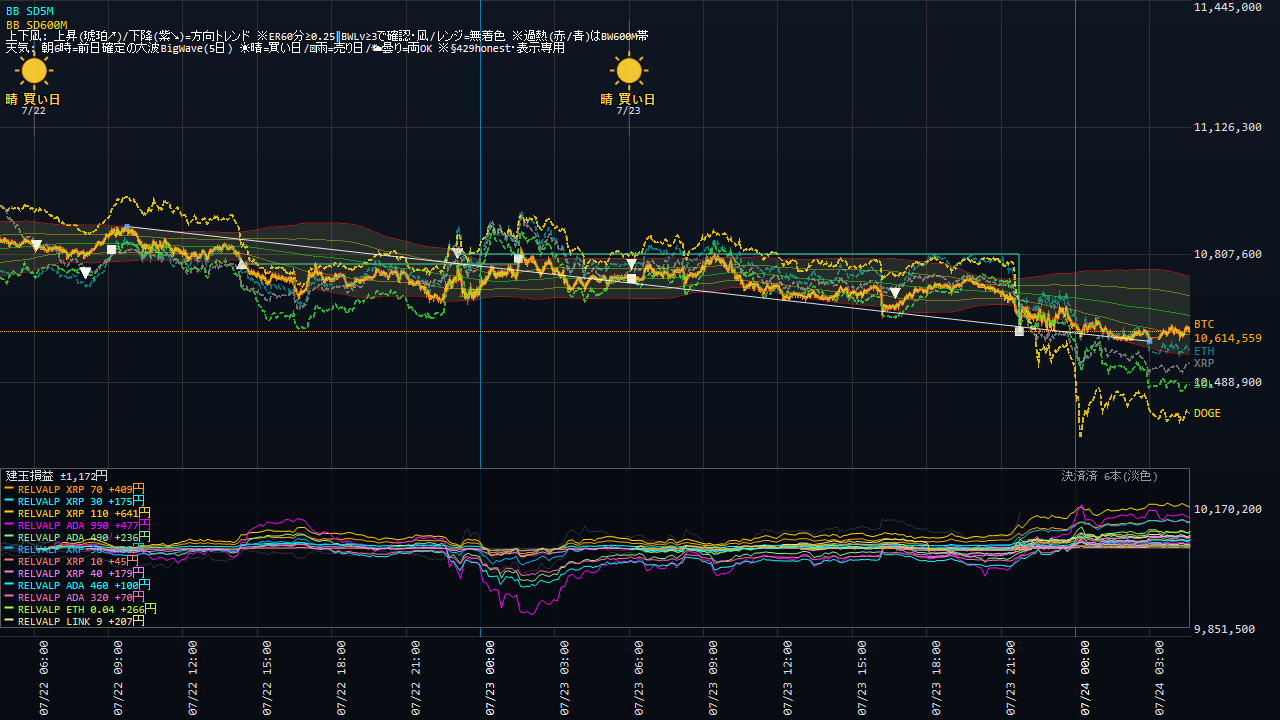
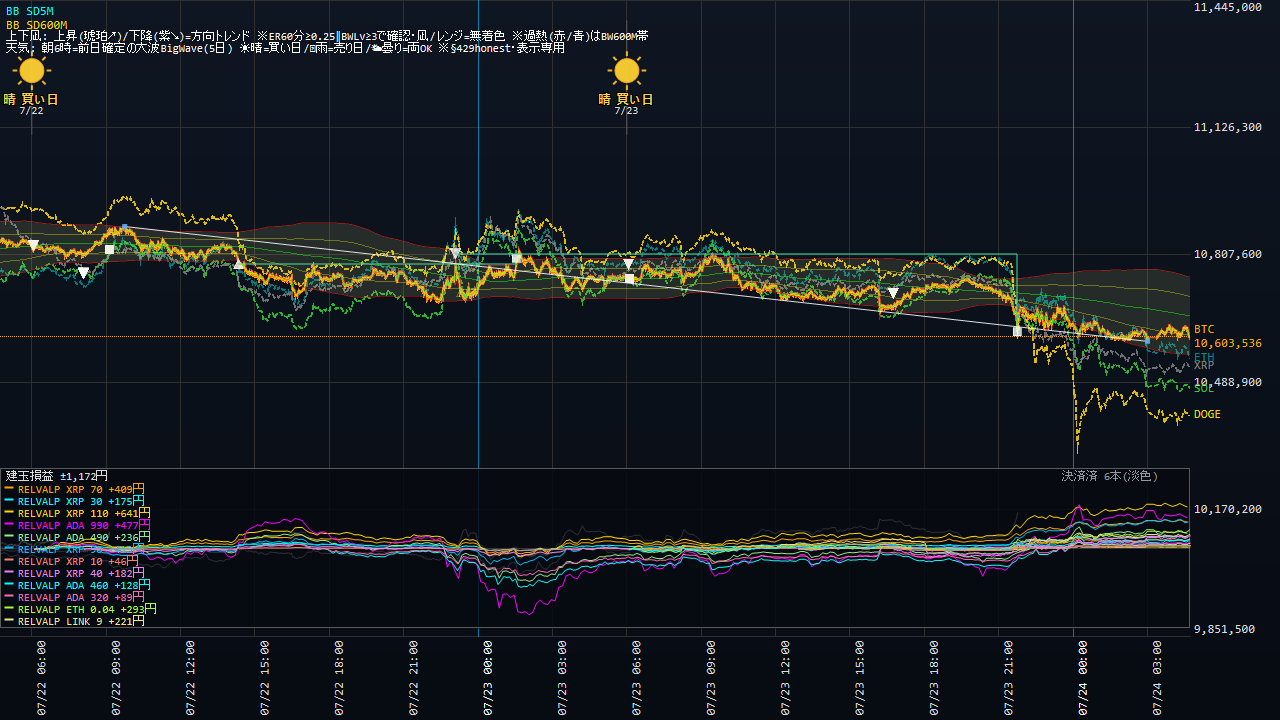
Coin100S 運用状況更新 07-24 04:47

diff --git a/coin100s-795hc4jfv8/index.html b/coin100s-795hc4jfv8/index.html
@@ -14,16 +14,16 @@ a{color:#60a5fa;text-decoration:none} a:hover{text-decoration:underline}
 .meta{color:#94a3b8;font-size:13px}</style>
 <script>setTimeout(function(){location.replace(location.pathname+"?t="+Date.now());},300000);</script></head><body>
 <h1>Coin100S ダッシュボード</h1>
-<p class="meta">スナップショット: 2026-07-24 04:41:06(自動リロード・最新化)</p>
+<p class="meta">スナップショット: 2026-07-24 04:47:06(自動リロード・最新化)</p>
 <div class="cards">
 <div class="card">建玉数<div class="v">20</div></div>
 <div class="card">本日損益<div class="v pos">+469円</div></div>
-<div class="card">評価損益<div class="v pos">+3,985円</div></div>
+<div class="card">評価損益<div class="v pos">+4,126円</div></div>
 </div>
 <h2>現在の建玉</h2>
-<table><tr><th>銘柄</th><th>側</th><th>数量</th><th>建値</th><th>含損益</th><th>レッグ</th></tr><tr><td>ADA_JPY</td><td>SELL</td><td>320</td><td>@28</td><td>+71円</td><td>RELVALP_SL700</td></tr><tr><td>ADA_JPY</td><td>SELL</td><td>460</td><td>@28</td><td>+102円</td><td>RELVALP_SELL</td></tr><tr><td>ADA_JPY</td><td>SELL</td><td>490</td><td>@28</td><td>+236円</td><td>RELVALP_SL700</td></tr><tr><td>ADA_JPY</td><td>SELL</td><td>990</td><td>@28</td><td>+477円</td><td>RELVALP_SELL</td></tr><tr><td>ETH_JPY</td><td>SELL</td><td>0.04</td><td>@312,191</td><td>+186円</td><td>RELVALP_SELL</td></tr><tr><td>ETH_JPY</td><td>SELL</td><td>0.01</td><td>@312,191</td><td>+46円</td><td>RELVALP_SELL</td></tr><tr><td>ETH_JPY</td><td>SELL</td><td>0.01</td><td>@312,216</td><td>+46円</td><td>RELVALP_SELL</td></tr><tr><td>ETH_JPY</td><td>SELL</td><td>0.02</td><td>@314,458</td><td>+138円</td><td>RELVALP_SL700</td></tr><tr><td>ETH_JPY</td><td>SELL</td><td>0.04</td><td>@314,458</td><td>+277円</td><td>RELVALP_SELL</td></tr><tr><td>LINK_JPY</td><td>SELL</td><td>6</td><td>@1,398</td><td>+72円</td><td>RELVALP_SL700</td></tr><tr><td>LINK_JPY</td><td>SELL</td><td>7</td><td>@1,398</td><td>+84円</td><td>RELVALP_SELL</td></tr><tr><td>LINK_JPY</td><td>SELL</td><td>2</td><td>@1,398</td><td>+24円</td><td>RELVALP_SELL</td></tr><tr><td>LINK_JPY</td><td>SELL</td><td>6</td><td>@1,409</td><td>+138円</td><td>RELVALP_SL700</td></tr><tr><td>LINK_JPY</td><td>SELL</td><td>9</td><td>@1,409</td><td>+207円</td><td>RELVALP_SELL</td></tr><tr><td>XRP_JPY</td><td>SELL</td><td>40</td><td>@186</td><td>+181円</td><td>RELVALP_SL700</td></tr><tr><td>XRP_JPY</td><td>SELL</td><td>10</td><td>@186</td><td>+45円</td><td>RELVALP_SELL</td></tr><tr><td>XRP_JPY</td><td>SELL</td><td>90</td><td>@186</td><td>+410円</td><td>RELVALP_SELL</td></tr><tr><td>XRP_JPY</td><td>SELL</td><td>110</td><td>@187</td><td>+652円</td><td>RELVALP_SELL</td></tr><tr><td>XRP_JPY</td><td>SELL</td><td>30</td><td>@187</td><td>+178円</td><td>RELVALP_SELL</td></tr><tr><td>XRP_JPY</td><td>SELL</td><td>70</td><td>@187</td><td>+415円</td><td>RELVALP_SL700</td></tr></table>
+<table><tr><th>銘柄</th><th>側</th><th>数量</th><th>建値</th><th>含損益</th><th>レッグ</th></tr><tr><td>ADA_JPY</td><td>SELL</td><td>320</td><td>@28</td><td>+71円</td><td>RELVALP_SL700</td></tr><tr><td>ADA_JPY</td><td>SELL</td><td>460</td><td>@28</td><td>+102円</td><td>RELVALP_SELL</td></tr><tr><td>ADA_JPY</td><td>SELL</td><td>490</td><td>@28</td><td>+236円</td><td>RELVALP_SL700</td></tr><tr><td>ADA_JPY</td><td>SELL</td><td>990</td><td>@28</td><td>+477円</td><td>RELVALP_SELL</td></tr><tr><td>ETH_JPY</td><td>SELL</td><td>0.04</td><td>@312,191</td><td>+207円</td><td>RELVALP_SELL</td></tr><tr><td>ETH_JPY</td><td>SELL</td><td>0.01</td><td>@312,191</td><td>+51円</td><td>RELVALP_SELL</td></tr><tr><td>ETH_JPY</td><td>SELL</td><td>0.01</td><td>@312,216</td><td>+52円</td><td>RELVALP_SELL</td></tr><tr><td>ETH_JPY</td><td>SELL</td><td>0.02</td><td>@314,458</td><td>+149円</td><td>RELVALP_SL700</td></tr><tr><td>ETH_JPY</td><td>SELL</td><td>0.04</td><td>@314,458</td><td>+298円</td><td>RELVALP_SELL</td></tr><tr><td>LINK_JPY</td><td>SELL</td><td>6</td><td>@1,398</td><td>+72円</td><td>RELVALP_SL700</td></tr><tr><td>LINK_JPY</td><td>SELL</td><td>7</td><td>@1,398</td><td>+84円</td><td>RELVALP_SELL</td></tr><tr><td>LINK_JPY</td><td>SELL</td><td>2</td><td>@1,398</td><td>+24円</td><td>RELVALP_SELL</td></tr><tr><td>LINK_JPY</td><td>SELL</td><td>6</td><td>@1,409</td><td>+138円</td><td>RELVALP_SL700</td></tr><tr><td>LINK_JPY</td><td>SELL</td><td>9</td><td>@1,409</td><td>+207円</td><td>RELVALP_SELL</td></tr><tr><td>XRP_JPY</td><td>SELL</td><td>40</td><td>@186</td><td>+194円</td><td>RELVALP_SL700</td></tr><tr><td>XRP_JPY</td><td>SELL</td><td>10</td><td>@186</td><td>+48円</td><td>RELVALP_SELL</td></tr><tr><td>XRP_JPY</td><td>SELL</td><td>90</td><td>@186</td><td>+440円</td><td>RELVALP_SELL</td></tr><tr><td>XRP_JPY</td><td>SELL</td><td>110</td><td>@187</td><td>+688円</td><td>RELVALP_SELL</td></tr><tr><td>XRP_JPY</td><td>SELL</td><td>30</td><td>@187</td><td>+188円</td><td>RELVALP_SELL</td></tr><tr><td>XRP_JPY</td><td>SELL</td><td>70</td><td>@187</td><td>+438円</td><td>RELVALP_SL700</td></tr></table>
 <p><a href="status.html"><b>▶ 運用状況の詳細(チャート・本日の取引・レジーム)</b></a></p>
 <h2>日報一覧</h2>
 <table><tr><th>取引日</th><th>実現損益</th><th>総括</th></tr><tr><td><a href='reports/20260722_Coin100S日報.html'>2026-07-22</a></td><td class="pos">+0円</td><td class='meta'>実取引: 新規10件/決済5件、実現損益 +0円。シグナル却下1件（最多: BW10M3_5M／トレンド方向ゲート(N分傾き下と不一致=逆張り方向のfade禁止)）。⚠警告/エラー 9件（要確認）。</td></tr><tr><td><a href='reports/20260721_Coin100S日報.html'>2026-07-21</a></td><td class="pos">+0円</td><td class='meta'>実取引: 新規4件/決済13件、実現損益 +0円。⚠警告/エラー 13件（要確認）。</td></tr><tr><td><a href='reports/20260720_Coin100S日報.html'>2026-07-20</a></td><td class="pos">+0円</td><td class='meta'>実取引: 新規8件/決済21件、実現損益 +0円。シグナル却下8件（最多: BW10M3_5M／トレンド方向ゲート(N分傾き上と不一致=逆張り方向のfade禁止)）。⚠警告/エラー 13件（要確認）。</td></tr><tr><td><a href='reports/20260719_Coin100S日報.html'>2026-07-19</a></td><td class="pos">+0円</td><td class='meta'>実取引: 新規10件/決済7件、実現損益 +0円。⚠警告/エラー 3件（要確認）。</td></tr><tr><td><a href='reports/20260718_Coin100S日報.html'>2026-07-18</a></td><td class="pos">+0円</td><td class='meta'>実取引: 新規9件/決済8件、実現損益 +0円。警告/孤児/エラーなし＝健全。</td></tr><tr><td><a href='reports/20260717_Coin100S日報.html'>2026-07-17</a></td><td class="pos">+0円</td><td class='meta'>実取引: 新規3件/決済2件、実現損益 +0円。シグナル却下1件（最多: BW10M3_5M／トレンド方向ゲート(N分傾き下と不一致=逆張り方向のfade禁止)）。⚠警告/エラー 2件（要確認）。</td></tr><tr><td><a href='reports/20260716_Coin100S日報.html'>2026-07-16</a></td><td class="pos">+0円</td><td class='meta'>実取引: 新規0件/決済5件、実現損益 +0円。⚠警告/エラー 7件（要確認）。</td></tr><tr><td><a href='reports/20260715_Coin100S日報.html'>2026-07-15</a></td><td class="pos">+0円</td><td class='meta'>実取引: 新規6件/決済5件、実現損益 +0円。シグナル却下6件（最多: BW10M3_5M／トレンド方向ゲート(N分傾き上と不一致=逆張り方向のfade禁止)）。⚠警告/エラー 7件（要確認）。</td></tr><tr><td><a href='reports/20260714_Coin100S日報.html'>2026-07-14</a></td><td class="pos">+0円</td><td class='meta'>実取引: 新規6件/決済18件、実現損益 +0円。シグナル却下5件（最多: BW10M3_5M／トレンド方向ゲート(N分傾き上と不一致=逆張り方向のfade禁止)）。⚠警告/エラー 9件（要確認）。</td></tr><tr><td><a href='reports/20260713_Coin100S日報.html'>2026-07-13</a></td><td class="pos">+0円</td><td class='meta'>実取引: 新規5件/決済8件、実現損益 +0円。シグナル却下1件（最多: BW10M3_5M／トレンド方向ゲート(N分傾き上と不一致=逆張り方向のfade禁止)）。警告/孤児/エラーなし＝健全。</td></tr><tr><td><a href='reports/20260712_Coin100S日報.html'>2026-07-12</a></td><td class="pos">+0円</td><td class='meta'>実取引: 新規14件/決済6件、実現損益 +0円。シグナル却下5件（最多: BW10M3_5M／トレンド方向ゲート(N分傾き下と不一致=逆張り方向のfade禁止)）。⚠警告/エラー 2件（要確認）。</td></tr><tr><td><a href='reports/20260711_Coin100S日報.html'>2026-07-11</a></td><td class="pos">+0円</td><td class='meta'>実取引: 新規7件/決済6件、実現損益 +0円。⚠警告/エラー 52件（要確認）。</td></tr><tr><td><a href='reports/20260710_Coin100S日報.html'>2026-07-10</a></td><td class="pos">+0円</td><td class='meta'>実取引: 新規7件/決済6件、実現損益 +0円。シグナル却下6件（最多: BW10M3_5M／トレンド方向ゲート(N分傾き上と不一致=逆張り方向のfade禁止)）。警告/孤児/エラーなし＝健全。</td></tr><tr><td><a href='reports/20260709_Coin100S日報.html'>2026-07-09</a></td><td class="pos">+0円</td><td class='meta'>実取引: 新規8件/決済3件、実現損益 +0円。シグナル却下5件（最多: SD120M_5M／トレンド方向ゲート(N分傾き上と不一致=逆張り方向のfade禁止)）。警告/孤児/エラーなし＝健全。</td></tr><tr><td><a href='reports/20260708_Coin100S日報.html'>2026-07-08</a></td><td class="pos">+0円</td><td class='meta'>実取引: 新規2件/決済4件、実現損益 +0円。シグナル却下4件（最多: SD120M_5M／トレンド方向ゲート(N分傾き下と不一致=逆張り方向のfade禁止)）。警告/孤児/エラーなし＝健全。</td></tr><tr><td><a href='reports/20260707_Coin100S日報.html'>2026-07-07</a></td><td class="pos">+0円</td><td class='meta'>実取引: 新規8件/決済6件、実現損益 +0円。シグナル却下4件（最多: SD120M_5M／トレンド方向ゲート(N分傾き上と不一致=逆張り方向のfade禁止)）。⚠警告/エラー 258件（要確認）。</td></tr><tr><td><a href='reports/20260706_Coin100S日報.html'>2026-07-06</a></td><td class="pos">+0円</td><td class='meta'>実取引: 新規9件/決済6件、実現損益 +0円。シグナル却下9件（最多: SD120M_5M／トレンド方向ゲート(N分傾き上と不一致=逆張り方向のfade禁止)）。⚠警告/エラー 150件（要確認）。</td></tr><tr><td><a href='reports/20260705_Coin100S日報.html'>2026-07-05</a></td><td class="pos">+0円</td><td class='meta'>実取引: 新規8件/決済3件、実現損益 +0円。⚠警告/エラー 2件（要確認）。</td></tr><tr><td><a href='reports/20260704_Coin100S日報.html'>2026-07-04</a></td><td class="pos">+0円</td><td class='meta'>実取引: 新規1件/決済2件、実現損益 +0円。⚠警告/エラー 2件（要確認）。</td></tr><tr><td><a href='reports/20260703_Coin100S日報.html'>2026-07-03</a></td><td class="pos">+0円</td><td class='meta'>実取引: 新規5件/決済4件、実現損益 +0円。⚠警告/エラー 15件（要確認）。</td></tr><tr><td><a href='reports/20260702_Coin100S日報.html'>2026-07-02</a></td><td class="pos">+0円</td><td class='meta'>実取引: 新規7件/決済5件、実現損益 +0円。シグナル却下17件（最多: SD120M_5M／トレンド方向ゲート(N分傾き上と不一致=逆張り方向のfade禁止)）。⚠警告/エラー 26件（要確認）。</td></tr><tr><td><a href='reports/20260701_Coin100S日報.html'>2026-07-01</a></td><td class="pos">+0円</td><td class='meta'>実取引: 新規14件/決済8件、実現損益 +0円。シグナル却下14件（最多: SD120M_5M／ボラ軸ゲート(SDN%&amp;gt;N%=高ボラ/荒れレンジ)）。⚠警告/エラー 2件（要確認）。</td></tr><tr><td><a href='reports/20260630_Coin100S日報.html'>2026-06-30</a></td><td class="pos">+0円</td><td class='meta'>実取引: 新規0件/決済1件、実現損益 +0円。シグナル却下29件（最多: 微5M／当日枠N）。警告/孤児/エラーなし＝健全。</td></tr></table>
-<hr><p class="meta">更新: 2026-07-24 04:41:06 / 自動生成: tools/web_publish.py(§580)</p>
+<hr><p class="meta">更新: 2026-07-24 04:47:07 / 自動生成: tools/web_publish.py(§580)</p>
 </body></html>

diff --git a/coin100s-795hc4jfv8/status.html b/coin100s-795hc4jfv8/status.html
@@ -14,22 +14,22 @@ a{color:#60a5fa;text-decoration:none} a:hover{text-decoration:underline}
 .meta{color:#94a3b8;font-size:13px}</style>
 <script>setTimeout(function(){location.replace(location.pathname+"?t="+Date.now());},300000);</script></head><body>
 <h1>Coin100S 運用状況</h1>
-<p class="meta">スナップショット: 2026-07-24 04:40:36 / ページ生成: 2026-07-24 04:41:06(自動リロード・最新化) / <a href="index.html">目次へ</a></p>
+<p class="meta">スナップショット: 2026-07-24 04:46:36 / ページ生成: 2026-07-24 04:47:07(自動リロード・最新化) / <a href="index.html">目次へ</a></p>
 <div class="cards">
 <div class="card">建玉数<div class="v">20</div></div>
 <div class="card">本日損益<div class="v pos">+469円</div></div>
-<div class="card">評価損益<div class="v pos">+3,977円</div></div>
+<div class="card">評価損益<div class="v pos">+4,112円</div></div>
 </div>
 <h2>資産推移(直近30日)</h2>
-<img src="status_equity.png?t=0441" alt="equity">
+<img src="status_equity.png?t=0447" alt="equity">
 <h2>取引チャート(直近24h)</h2>
-<img src="status_chart.png?t=0441" alt="chart">
+<img src="status_chart.png?t=0447" alt="chart">
 <h2>建玉一覧</h2>
-<table><tr><th>銘柄</th><th>側</th><th>数量</th><th>建値</th><th>含損益</th><th>レッグ</th></tr><tr><td>ADA_JPY</td><td>SELL</td><td>320</td><td>@28</td><td>+71円</td><td>RELVALP_SL700</td></tr><tr><td>ADA_JPY</td><td>SELL</td><td>460</td><td>@28</td><td>+102円</td><td>RELVALP_SELL</td></tr><tr><td>ADA_JPY</td><td>SELL</td><td>490</td><td>@28</td><td>+236円</td><td>RELVALP_SL700</td></tr><tr><td>ADA_JPY</td><td>SELL</td><td>990</td><td>@28</td><td>+477円</td><td>RELVALP_SELL</td></tr><tr><td>ETH_JPY</td><td>SELL</td><td>0.04</td><td>@312,191</td><td>+183円</td><td>RELVALP_SELL</td></tr><tr><td>ETH_JPY</td><td>SELL</td><td>0.01</td><td>@312,191</td><td>+45円</td><td>RELVALP_SELL</td></tr><tr><td>ETH_JPY</td><td>SELL</td><td>0.01</td><td>@312,216</td><td>+46円</td><td>RELVALP_SELL</td></tr><tr><td>ETH_JPY</td><td>SELL</td><td>0.02</td><td>@314,458</td><td>+137円</td><td>RELVALP_SL700</td></tr><tr><td>ETH_JPY</td><td>SELL</td><td>0.04</td><td>@314,458</td><td>+274円</td><td>RELVALP_SELL</td></tr><tr><td>LINK_JPY</td><td>SELL</td><td>6</td><td>@1,398</td><td>+72円</td><td>RELVALP_SL700</td></tr><tr><td>LINK_JPY</td><td>SELL</td><td>7</td><td>@1,398</td><td>+84円</td><td>RELVALP_SELL</td></tr><tr><td>LINK_JPY</td><td>SELL</td><td>2</td><td>@1,398</td><td>+24円</td><td>RELVALP_SELL</td></tr><tr><td>LINK_JPY</td><td>SELL</td><td>6</td><td>@1,409</td><td>+138円</td><td>RELVALP_SL700</td></tr><tr><td>LINK_JPY</td><td>SELL</td><td>9</td><td>@1,409</td><td>+207円</td><td>RELVALP_SELL</td></tr><tr><td>XRP_JPY</td><td>SELL</td><td>40</td><td>@186</td><td>+181円</td><td>RELVALP_SL700</td></tr><tr><td>XRP_JPY</td><td>SELL</td><td>10</td><td>@186</td><td>+45円</td><td>RELVALP_SELL</td></tr><tr><td>XRP_JPY</td><td>SELL</td><td>90</td><td>@186</td><td>+410円</td><td>RELVALP_SELL</td></tr><tr><td>XRP_JPY</td><td>SELL</td><td>110</td><td>@187</td><td>+652円</td><td>RELVALP_SELL</td></tr><tr><td>XRP_JPY</td><td>SELL</td><td>30</td><td>@187</td><td>+178円</td><td>RELVALP_SELL</td></tr><tr><td>XRP_JPY</td><td>SELL</td><td>70</td><td>@187</td><td>+415円</td><td>RELVALP_SL700</td></tr></table>
+<table><tr><th>銘柄</th><th>側</th><th>数量</th><th>建値</th><th>含損益</th><th>レッグ</th></tr><tr><td>ADA_JPY</td><td>SELL</td><td>320</td><td>@28</td><td>+71円</td><td>RELVALP_SL700</td></tr><tr><td>ADA_JPY</td><td>SELL</td><td>460</td><td>@28</td><td>+102円</td><td>RELVALP_SELL</td></tr><tr><td>ADA_JPY</td><td>SELL</td><td>490</td><td>@28</td><td>+236円</td><td>RELVALP_SL700</td></tr><tr><td>ADA_JPY</td><td>SELL</td><td>990</td><td>@28</td><td>+477円</td><td>RELVALP_SELL</td></tr><tr><td>ETH_JPY</td><td>SELL</td><td>0.04</td><td>@312,191</td><td>+198円</td><td>RELVALP_SELL</td></tr><tr><td>ETH_JPY</td><td>SELL</td><td>0.01</td><td>@312,191</td><td>+49円</td><td>RELVALP_SELL</td></tr><tr><td>ETH_JPY</td><td>SELL</td><td>0.01</td><td>@312,216</td><td>+49円</td><td>RELVALP_SELL</td></tr><tr><td>ETH_JPY</td><td>SELL</td><td>0.02</td><td>@314,458</td><td>+144円</td><td>RELVALP_SL700</td></tr><tr><td>ETH_JPY</td><td>SELL</td><td>0.04</td><td>@314,458</td><td>+288円</td><td>RELVALP_SELL</td></tr><tr><td>LINK_JPY</td><td>SELL</td><td>6</td><td>@1,398</td><td>+72円</td><td>RELVALP_SL700</td></tr><tr><td>LINK_JPY</td><td>SELL</td><td>7</td><td>@1,398</td><td>+84円</td><td>RELVALP_SELL</td></tr><tr><td>LINK_JPY</td><td>SELL</td><td>2</td><td>@1,398</td><td>+24円</td><td>RELVALP_SELL</td></tr><tr><td>LINK_JPY</td><td>SELL</td><td>6</td><td>@1,409</td><td>+138円</td><td>RELVALP_SL700</td></tr><tr><td>LINK_JPY</td><td>SELL</td><td>9</td><td>@1,409</td><td>+207円</td><td>RELVALP_SELL</td></tr><tr><td>XRP_JPY</td><td>SELL</td><td>40</td><td>@186</td><td>+191円</td><td>RELVALP_SL700</td></tr><tr><td>XRP_JPY</td><td>SELL</td><td>10</td><td>@186</td><td>+47円</td><td>RELVALP_SELL</td></tr><tr><td>XRP_JPY</td><td>SELL</td><td>90</td><td>@186</td><td>+434円</td><td>RELVALP_SELL</td></tr><tr><td>XRP_JPY</td><td>SELL</td><td>110</td><td>@187</td><td>+681円</td><td>RELVALP_SELL</td></tr><tr><td>XRP_JPY</td><td>SELL</td><td>30</td><td>@187</td><td>+186円</td><td>RELVALP_SELL</td></tr><tr><td>XRP_JPY</td><td>SELL</td><td>70</td><td>@187</td><td>+434円</td><td>RELVALP_SL700</td></tr></table>
 <h2>実現決済履歴(直近15件・OrderId単位)</h2>
 <table><tr><th>決済時刻</th><th>レッグ</th><th>銘柄</th><th>実現損益</th></tr><tr><td>07-23 21:46</td><td>SIGFADE_SOL</td><td>SOL</td><td class="pos">+557円</td></tr><tr><td>07-23 06:08</td><td>RELVALP_SELL</td><td>SOL</td><td class="neg">-67円</td></tr><tr><td>07-23 06:08</td><td>RELVALP_SL700</td><td>SOL</td><td class="neg">-21円</td></tr><tr><td>07-23 01:34</td><td>SIGFADE_BTC</td><td>BTC</td><td class="pos">+27円</td></tr><tr><td>07-22 09:08</td><td>SIGFADE_SOL</td><td>SOL</td><td class="pos">+220円</td></tr><tr><td>07-22 09:08</td><td>SIGFADE_ETH</td><td>ETH</td><td class="pos">+243円</td></tr><tr><td>07-21 08:07</td><td>TENKI5D_REV_DOGE</td><td>DOGE</td><td class="neg">-210円</td></tr><tr><td>07-21 06:11</td><td>TENKI5D_REV_ETH</td><td>ETH</td><td class="pos">+622円</td></tr><tr><td>07-21 06:11</td><td>TENKI5D_REV_ETH</td><td>ETH</td><td class="pos">+124円</td></tr><tr><td>07-21 06:09</td><td>TENKI5D_REV_SOL</td><td>SOL</td><td class="pos">+287円</td></tr><tr><td>07-21 06:09</td><td>TENKI5D_REV_SOL</td><td>SOL</td><td class="pos">+454円</td></tr><tr><td>07-21 06:09</td><td>TENKI5D_REV_BTC</td><td>BTC</td><td class="pos">+649円</td></tr><tr><td>07-21 06:08</td><td>RELVALP_SELL</td><td>LTC</td><td class="neg">-267円</td></tr><tr><td>07-21 06:08</td><td>RELVALP_SL700</td><td>LTC</td><td class="neg">-90円</td></tr><tr><td>07-20 23:29</td><td>BW10M3_5M</td><td>BTC</td><td class="neg">-45円</td></tr></table>
 <!-- §799c 「本取引日の実取引(6:00起点)」テーブルは公開ページから削除(ユーザー指示2026-07-15・数量/指値まで晒す情報漏れ)。建玉/実現損益は許可・実発注の生取引明細は非公開 -->
 <h2>現在レジーム(3軸・§570c)</h2>
-<ul><li>アルト対BTC 5日: <b>+31bps</b>(アルト優越=RELVAL逆風)</li><li>BTC ER240m: <b>0.019</b>(閾値0.25→レンジ(fade順風/BWTRD逆風))</li><li>BTC実現ボラ240m: <b>3.45</b> bps/分</li></ul>
+<ul><li>アルト対BTC 5日: <b>+31bps</b>(アルト優越=RELVAL逆風)</li><li>BTC ER240m: <b>0.033</b>(閾値0.25→レンジ(fade順風/BWTRD逆風))</li><li>BTC実現ボラ240m: <b>3.40</b> bps/分</li></ul>
 <hr><p class="meta">自動生成: tools/web_publish.py(§580・読み取り専用)。売買判断はアプリ本体。</p>
 </body></html>
